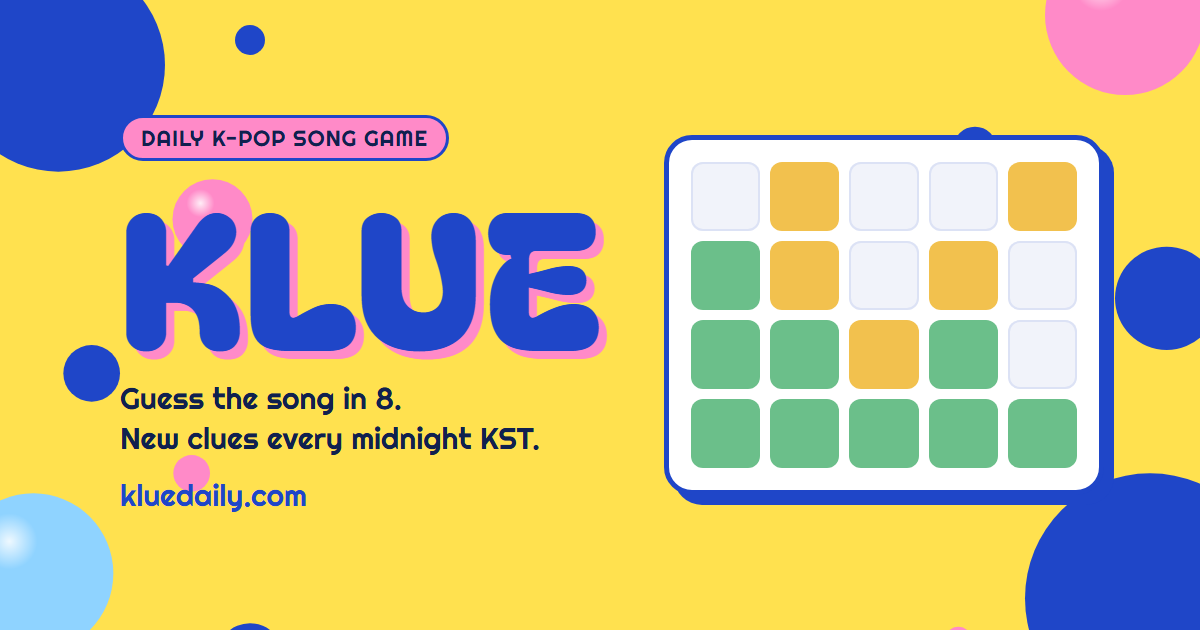
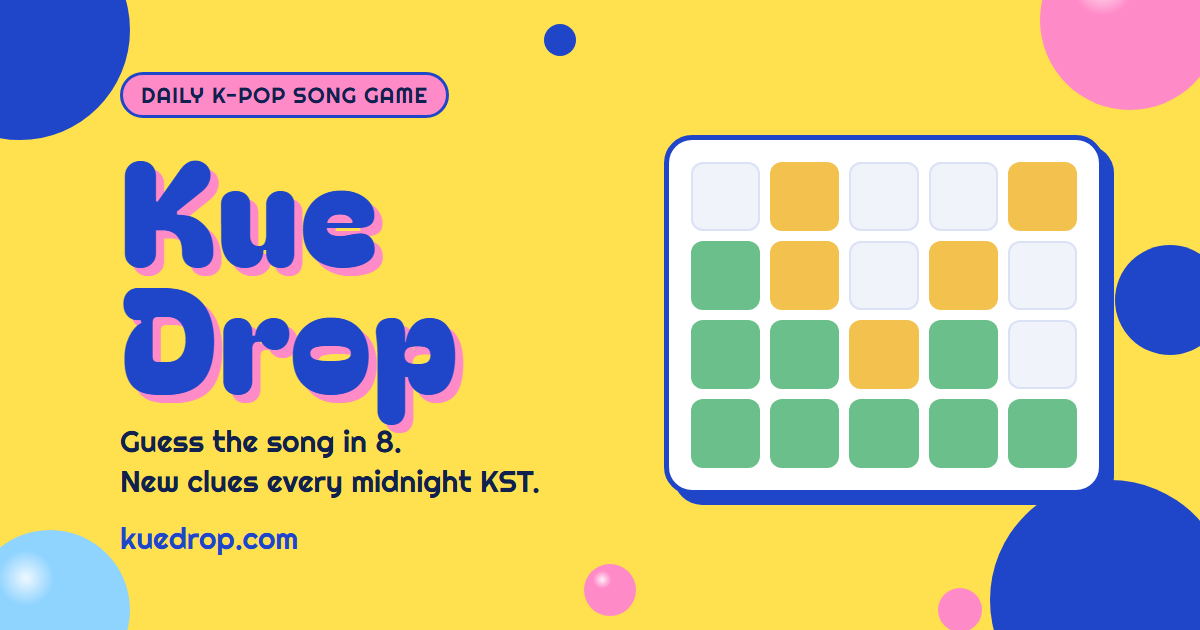
Rebrand Klue to KueDrop (kuedrop.com)
"Klue" is already taken by an existing word game. Site name, logo, page
title, share text ("KueDrop #N"), link-preview tags, canonical URL, privacy
page and contact address now use KueDrop / kuedrop.com. Saved games use the
"kuedrop:" storage prefix. Preview image redrawn with a stacked "Kue / Drop"
wordmark and its own dot layout (tools/og-dots.svg); og.png?v=5 so chat apps
refetch it. README and CLAUDE.md record the name history.

diff --git a/site/index.html b/site/index.html
@@ -3,27 +3,27 @@
 <head>
 <meta charset="utf-8">
 <meta name="viewport" content="width=device-width, initial-scale=1, viewport-fit=cover">
-<title>Klue: daily K-pop song guessing game</title>
+<title>KueDrop: daily K-pop song guessing game</title>
 <meta name="description" content="Guess the mystery K-pop song in 8 tries. Artist is always a clue; the other four change every day at midnight KST. Girl group and boy group filters.">
 <meta name="theme-color" content="#FFE14F">
 <link rel="icon" href="favicon.svg" type="image/svg+xml">
 <link rel="apple-touch-icon" href="apple-touch-icon.png">
 
-<link rel="canonical" href="https://kluedaily.com/">
+<link rel="canonical" href="https://kuedrop.com/">
 <meta property="og:type" content="website">
-<meta property="og:site_name" content="Klue">
-<meta property="og:title" content="Klue: guess today's K-pop song">
+<meta property="og:site_name" content="KueDrop">
+<meta property="og:title" content="KueDrop: guess today's K-pop song">
 <meta property="og:description" content="8 tries. Artist plus four clues that change every day at midnight KST.">
-<meta property="og:url" content="https://kluedaily.com/">
+<meta property="og:url" content="https://kuedrop.com/">
 <!-- Bump ?v= whenever og.png changes: iMessage/Discord cache images by URL and won't refetch otherwise. -->
-<meta property="og:image" content="https://kluedaily.com/og.png?v=4">
+<meta property="og:image" content="https://kuedrop.com/og.png?v=5">
 <meta property="og:image:width" content="1200">
 <meta property="og:image:height" content="630">
-<meta property="og:image:alt" content="Klue: a grid of green, yellow and grey clue tiles">
+<meta property="og:image:alt" content="KueDrop: a grid of green, yellow and grey clue tiles">
 <meta name="twitter:card" content="summary_large_image">
-<meta name="twitter:title" content="Klue: guess today's K-pop song">
+<meta name="twitter:title" content="KueDrop: guess today's K-pop song">
 <meta name="twitter:description" content="8 tries. Artist plus four clues that change every day at midnight KST.">
-<meta name="twitter:image" content="https://kluedaily.com/og.png?v=4">
+<meta name="twitter:image" content="https://kuedrop.com/og.png?v=5">
 
 <link rel="preconnect" href="https://fonts.googleapis.com">
 <link rel="preconnect" href="https://fonts.gstatic.com" crossorigin>
@@ -37,7 +37,7 @@
 <div class="wrap">
   <header class="mast">
     <div>
-      <h1 class="logo">KLUE<span class="chip beta">BETA</span></h1>
+      <h1 class="logo">KueDrop<span class="chip beta">BETA</span></h1>
       <div class="caseline" id="caseline">Case #1</div>
     </div>
   </header>

diff --git a/tools/og.html b/tools/og.html
@@ -4,12 +4,12 @@
 <link rel="stylesheet" href="https://fonts.googleapis.com/css2?family=Bagel+Fat+One&family=Righteous&display=swap">
 <style>
   html, body { margin: 0; }
-  body { width: 1200px; height: 630px; background: #FFE14F url("../site/dots.svg") center / cover no-repeat; color: #1F46C8;
+  body { width: 1200px; height: 630px; background: #FFE14F url("og-dots.svg") center / cover no-repeat; color: #1F46C8;
     font-family: "Bagel Fat One", sans-serif; overflow: hidden; position: relative;
     display: grid; grid-template-columns: 1fr 440px; align-items: center; gap: 48px; padding: 0 96px 0 120px; box-sizing: border-box; }
   .chip { display: inline-block; font: 400 22px "Righteous", sans-serif; background: #FF8AC8; color: #10204F; border: 3px solid #1F46C8;
     border-radius: 999px; padding: 6px 18px; margin-bottom: 22px; letter-spacing: .04em; }
-  h1 { font-weight: 400; font-size: 190px; line-height: .9; margin: 0 0 24px; letter-spacing: .01em; text-shadow: 8px 8px 0 #FF8AC8; }
+  h1 { font-weight: 400; font-size: 148px; line-height: .86; margin: 0 0 26px; letter-spacing: .01em; text-shadow: 8px 8px 0 #FF8AC8; }
   p { font: 400 30px "Righteous", sans-serif; color: #10204F; margin: 0; line-height: 1.35; }
   .url { color: #1F46C8; margin-top: 16px; }
   .card { background: #fff; border: 5px solid #1F46C8; box-shadow: 10px 10px 0 #1F46C8; border-radius: 28px; padding: 22px; }
@@ -20,9 +20,9 @@
 <body>
   <div>
     <span class="chip">DAILY K-POP SONG GAME</span>
-    <h1>KLUE</h1>
+    <h1>Kue<br>Drop</h1>
     <p>Guess the song in 8.<br>New clues every midnight KST.</p>
-    <p class="url">kluedaily.com</p>
+    <p class="url">kuedrop.com</p>
   </div>
   <div class="card"><div class="grid">
     <i></i><i class="n"></i><i></i><i></i><i class="n"></i>

diff --git a/site/privacy.html b/site/privacy.html
@@ -3,8 +3,8 @@
 <head>
 <meta charset="utf-8">
 <meta name="viewport" content="width=device-width, initial-scale=1">
-<title>Privacy · Klue</title>
-<meta name="description" content="What Klue stores and measures, and what it doesn't.">
+<title>Privacy · KueDrop</title>
+<meta name="description" content="What KueDrop stores and measures, and what it doesn't.">
 <meta name="theme-color" content="#FFE14F">
 <link rel="icon" href="favicon.svg" type="image/svg+xml">
 <link rel="preconnect" href="https://fonts.googleapis.com">
@@ -18,7 +18,7 @@
   <h1>Privacy</h1>
   <p class="meta">Last updated 13 November 2026</p>
 
-  <p>Klue (kluedaily.com) is a free daily game. There are no accounts, no ads and no sign-in. This page says what the site keeps and why.</p>
+  <p>KueDrop (kuedrop.com) is a free daily game. There are no accounts, no ads and no sign-in. This page says what the site keeps and why.</p>
 
   <h2>On your device</h2>
   <p>Your guesses for today, your stats (played, win rate, streak) and your chosen filter are saved in your browser's local storage so they survive a refresh. They never leave your device. Clearing your browser's site data deletes them.</p>
@@ -43,7 +43,7 @@
   <p>The game shows facts about songs (release date, label, length, genre, view tier). It contains no audio, lyrics or album art. Song titles and artist names belong to their owners.</p>
 
   <h2>Contact</h2>
-  <p>Questions or deletion requests: <a href="mailto:hello@kluedaily.com">hello@kluedaily.com</a>.</p>
+  <p>Questions or deletion requests: <a href="mailto:hello@kuedrop.com">hello@kuedrop.com</a>.</p>
 </main>
 </body>
 </html>

diff --git a/site/assets/game.js b/site/assets/game.js
@@ -37,8 +37,8 @@ function practicePuzzle(filter, prevId) {
 }
 
 const store = {
-  get(k, d) { try { const v = localStorage.getItem("klue:" + k); return v ? JSON.parse(v) : d; } catch { return d; } },
-  set(k, v) { try { localStorage.setItem("klue:" + k, JSON.stringify(v)); } catch {} },
+  get(k, d) { try { const v = localStorage.getItem("kuedrop:" + k); return v ? JSON.parse(v) : d; } catch { return d; } },
+  set(k, v) { try { localStorage.setItem("kuedrop:" + k, JSON.stringify(v)); } catch {} },
 };
 
 // ---------- State ----------
@@ -87,7 +87,7 @@ function render(animateLast) {
 
 const shareUrl = () => (CFG.siteUrl || (location.origin + location.pathname).replace(/index\.html$/, "")).replace(/\/?$/, "/") + "?utm_source=share&utm_medium=social";
 function shareText(won) {
-  const head = `${mode === "daily" ? `Klue #${caseNo()}` : "Klue (practice)"}${FILTER_LABEL[filter]} — ${won ? guesses.length : "X"}/${MAX}`;
+  const head = `${mode === "daily" ? `KueDrop #${caseNo()}` : "KueDrop (practice)"}${FILTER_LABEL[filter]} — ${won ? guesses.length : "X"}/${MAX}`;
   const rows = guesses.map(g => cols().map(c => EMOJI[c.cmp(g, puz.answer).st]).join(""));
   return [head, `Difficulty: ${DIFF_NAMES[puz.band]}`, ...rows, "", shareUrl()].join("\n");
 }

diff --git a/site/assets/style.css b/site/assets/style.css
@@ -1,4 +1,4 @@
-/* Klue "pop" look (aesthetic reference: 2020s K-pop pop-art era): lemon ground, cobalt ink and outlines,
+/* KueDrop "pop" look (aesthetic reference: 2020s K-pop pop-art era): lemon ground, cobalt ink and outlines,
    bubblegum pink, sticker cards with offset shadows, bubbly display type, big polka dots at the page edges.
    Feedback stays green = exact / yellow = close / pale = off (players read those by habit). One theme. */
 :root {

diff --git a/site/assets/config.js b/site/assets/config.js
@@ -1,7 +1,7 @@
 // Everything you'd change before launch lives here.
 window.CD_CONFIG = {
   // Public site URL, no trailing slash. Used in share text. Empty = use the current page's address.
-  siteUrl: "https://kluedaily.com",
+  siteUrl: "https://kuedrop.com",
 
   // PostHog project API key (starts with "phc_"). Empty = analytics off (nothing loads, nothing is sent).
   posthogKey: "phc_sobsyTNbEPbeB6L9xrCcXcK64meVMD8oByNhqAXhZnor",

diff --git a/README.md b/README.md
@@ -1,14 +1,14 @@
-# Klue
+# KueDrop
 
-A daily K-pop song-guessing game with rotating clue columns, at **https://kluedaily.com**
-(domain registered at Namecheap). Side project and marketing-analytics project.
-Working title was "Chart Detective" (the history below and the `archive/` files use it).
+A daily K-pop song-guessing game with rotating clue columns, at **https://kuedrop.com**. Side project and marketing-analytics project.
+Working title was "Chart Detective" (the history below and the `archive/` files use it); briefly "Klue"
+(kluedaily.com) until we found an existing word game with that name.
 
 **Play locally:** `npm run serve`, then open http://localhost:8787.
 **After editing songs/artists:** `npm run schedule` (keeps today and tomorrow fixed, reschedules the rest).
-**Deploy:** push to `main` on GitHub (jasonxu-xzx/kluedaily); Cloudflare Pages deploys `site/` automatically
-(preset "None", no build command, output directory `site`). Live at https://kluedaily.com; `www` 301-redirects
-to it via a Cloudflare Redirect Rule. `hello@kluedaily.com` forwards via Cloudflare Email Routing.
+**Deploy:** push to `main` on GitHub (jasonxu-xzx/kluedaily; repo name kept from the Klue days); Cloudflare Pages deploys `site/` automatically
+(preset "None", no build command, output directory `site`). Live at https://kuedrop.com; `www` and the old
+kluedaily.com 301-redirect to it via Cloudflare Redirect Rules. `hello@kuedrop.com` forwards via Cloudflare Email Routing.
 **Settings:** PostHog key, report-form URL and site URL live in `site/assets/config.js`.
 **Preview image:** edit `tools/og.html`, run `powershell -File tools/make-images.ps1`, then bump `og.png?v=N` in
 `site/index.html` (both tags). iMessage/Discord cache by image URL and keep showing the old picture otherwise.
@@ -36,18 +36,19 @@ Web search missed both competitors; check X, TikTok and fan Discords too.
 
 **Before soft launch**
 - [ ] Apply data corrections
-- [x] Final name: **Klue**; domain **kluedaily.com** (Namecheap)
-- [x] Searched X/Google for other games called "Klue": none similar found
-- [x] kluedaily.com nameservers on Cloudflare
+- [x] ~~Klue / kluedaily.com~~: dropped, an existing word game is called Klue
+- [x] Final name: **KueDrop**; domain **kuedrop.com**
+- [ ] kuedrop.com on Cloudflare: Pages custom domain, www redirect, kluedaily.com → kuedrop.com redirect, Email Routing
+- [ ] Search X/TikTok/Discord/app stores for other games called "KueDrop"
 - [x] Data split into `site/data/songs.json` + `artists.json`
 - [x] Standalone page: head tags, Open Graph preview image, favicon
 - [x] PostHog analytics with the events listed in CLAUDE.md (key set, events verified)
 - [x] Share text includes URL with `utm_source=share` (+ native share button on phones)
-- [x] Privacy policy page, contact hello@kluedaily.com (Email Routing)
+- [x] Privacy policy page, contact hello@kuedrop.com (Email Routing)
 - [x] "Report a data error" link (Google Form)
 - [x] Stable daily schedule (`data/schedule.json`, `npm run schedule` after every data change)
 - [x] Weekly GitHub Action running `npm run check` so the schedule never runs out
-- [x] GitHub repo → Cloudflare Pages → kluedaily.com (+ www redirect)
+- [x] GitHub repo → Cloudflare Pages (was on kluedaily.com; move to kuedrop.com above)
 - [x] Cloudflare: "Always Use HTTPS" on (http:// → https://)
 - [x] PostHog: internal/test filter (`$host` doesn't contain localhost, 127.0.0.1, pages.dev)
 - [x] Phone check on the live site: play, share, link preview card

diff --git a/CLAUDE.md b/CLAUDE.md
@@ -1,6 +1,7 @@
-# Klue — project notes for Claude Code
+# KueDrop — project notes for Claude Code
 
-**Klue** (https://kluedaily.com; working title "Chart Detective"). Daily K-pop song-guessing web game, built as a side project AND a marketing-analytics
+**KueDrop** (https://kuedrop.com; "cue" + a comeback "drop"). Earlier names: "Chart Detective" (working title),
+"Klue" (dropped Nov 2026: an existing word game already uses it; kluedaily.com should 301 to kuedrop.com). Daily K-pop song-guessing web game, built as a side project AND a marketing-analytics
 project (acquisition, retention, share rate). Owner: Jason. Read README.md for the full
 history and launch checklist.
 
@@ -12,7 +13,7 @@ history and launch checklist.
   - `assets/engine.js`: shared rules (columns, comparisons, pools, lineup scoring, KST calendar). ES module,
     imported by the browser and by `tools/schedule.mjs`. No DOM here.
   - `assets/game.js`: UI, storage, share, analytics events (ES module).
-  - `data/songs.json` (48 songs, stable slug `id`) and `data/artists.json` (gender F/M/X, debut, parent, aliases).
+  - `data/songs.json` (69 songs, stable slug `id`) and `data/artists.json` (gender F/M/X, debut, parent, aliases).
   - `data/schedule.json`: **the daily answers**: per filter, one entry per case
     `{case, date, song, clues, band}`. Generated, never hand-edited.
   - `og.png`, `apple-touch-icon.png` are rendered from `tools/og.html` + `favicon.svg` by `tools/make-images.ps1`.
@@ -29,7 +30,6 @@ history and launch checklist.
   - **Song `id`s must never change or be removed once scheduled**; the script refuses if a locked case
     would break. Fix a title by editing `title`/`aliases`, not `id`.
   - If a day is missing from the schedule, `engine.js` falls back to a seeded pick (console warning).
-- **Jason's data corrections are still not applied.**
 - `archive/chart-detective-v2-prototype.html` is the original single-file prototype.
 
 ## Game rules (decided — don't change without asking)
